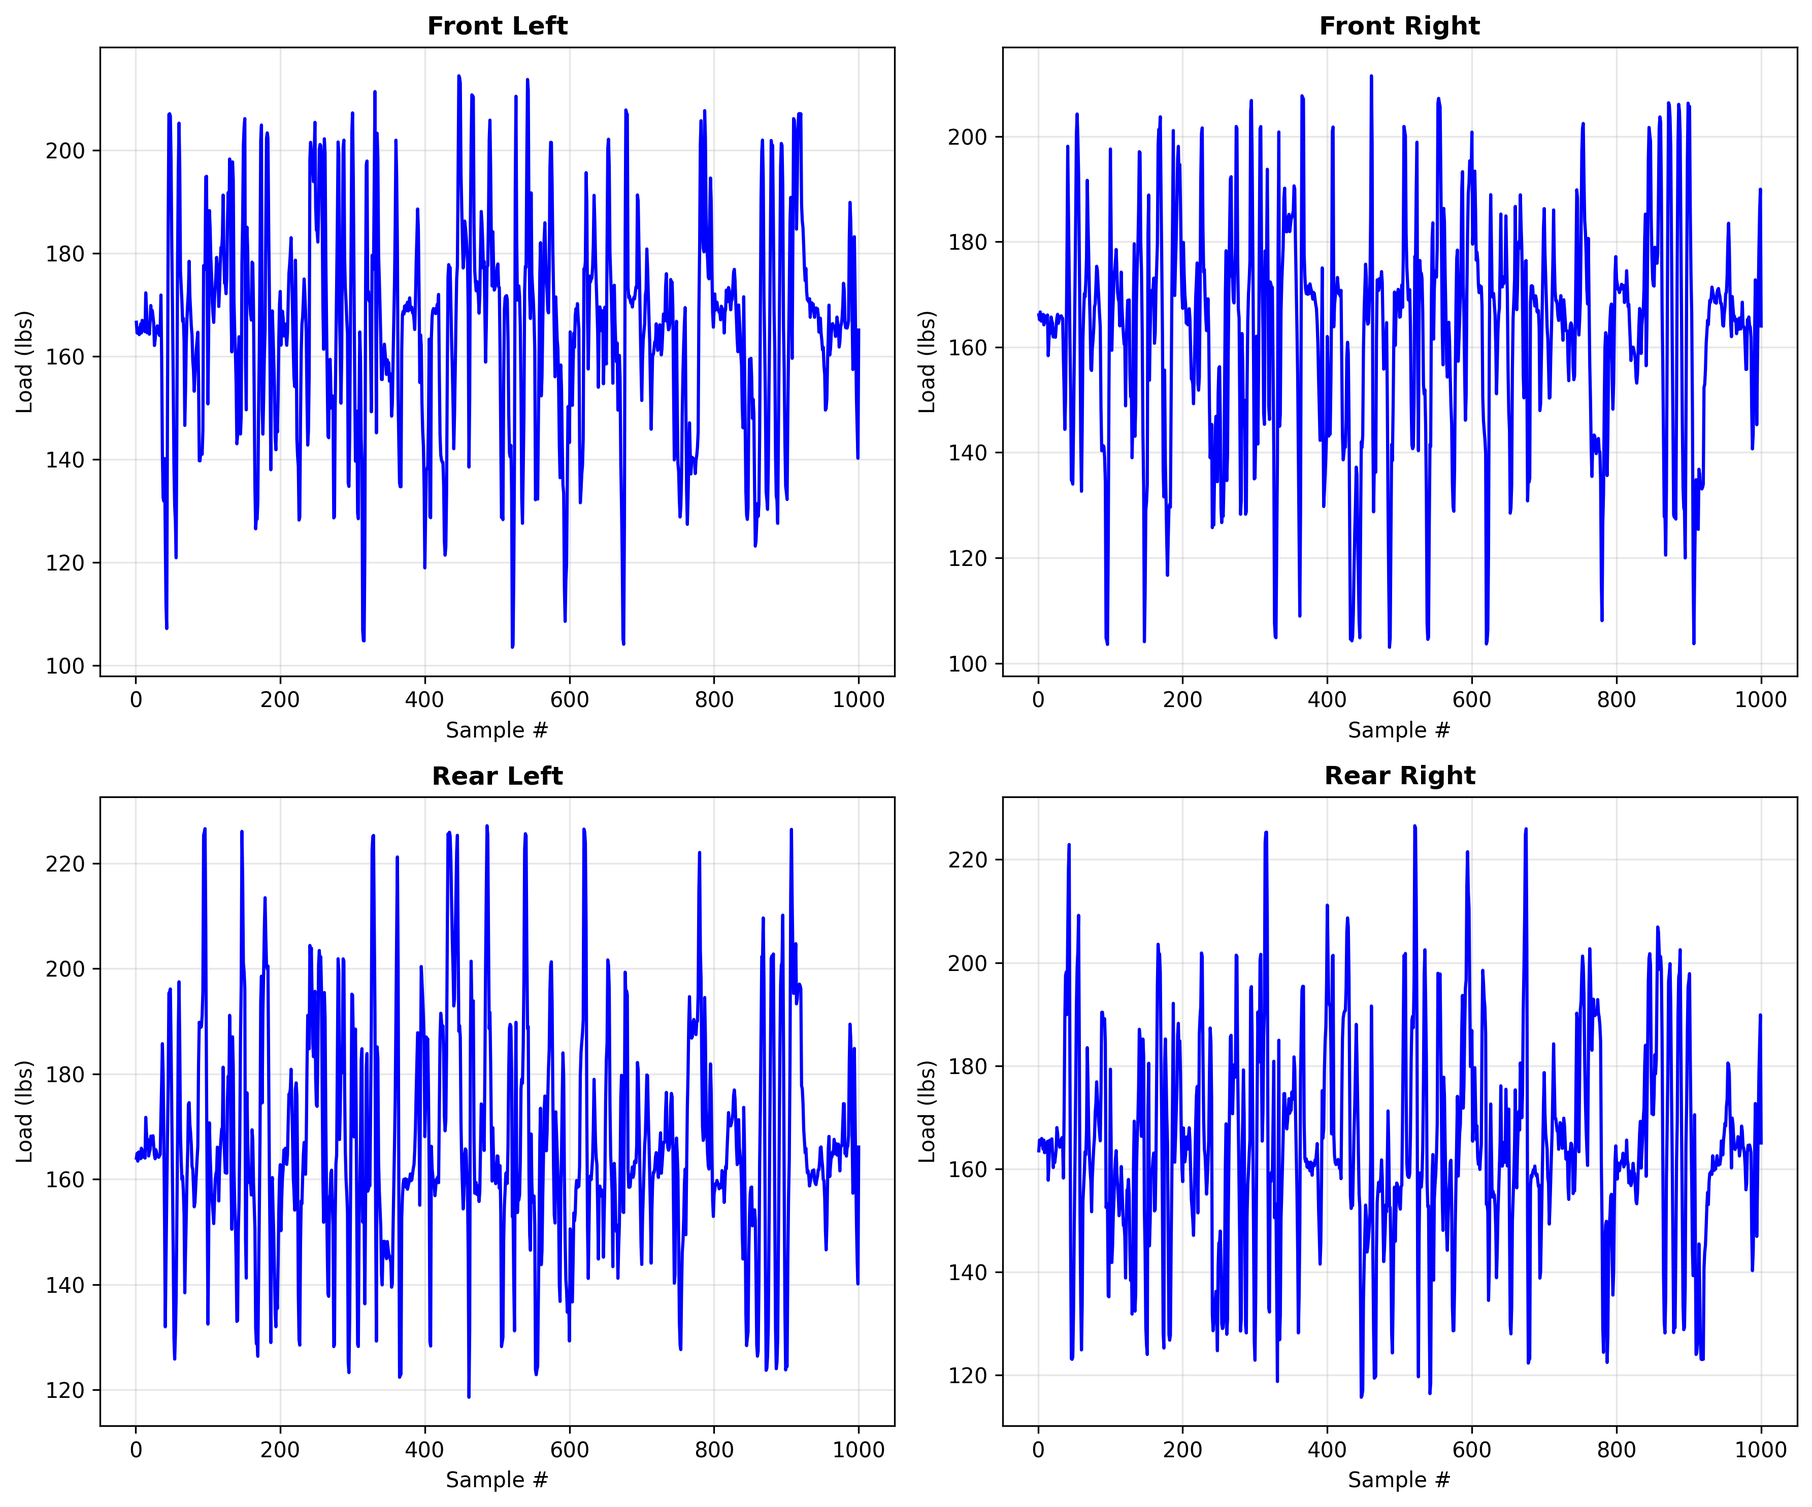
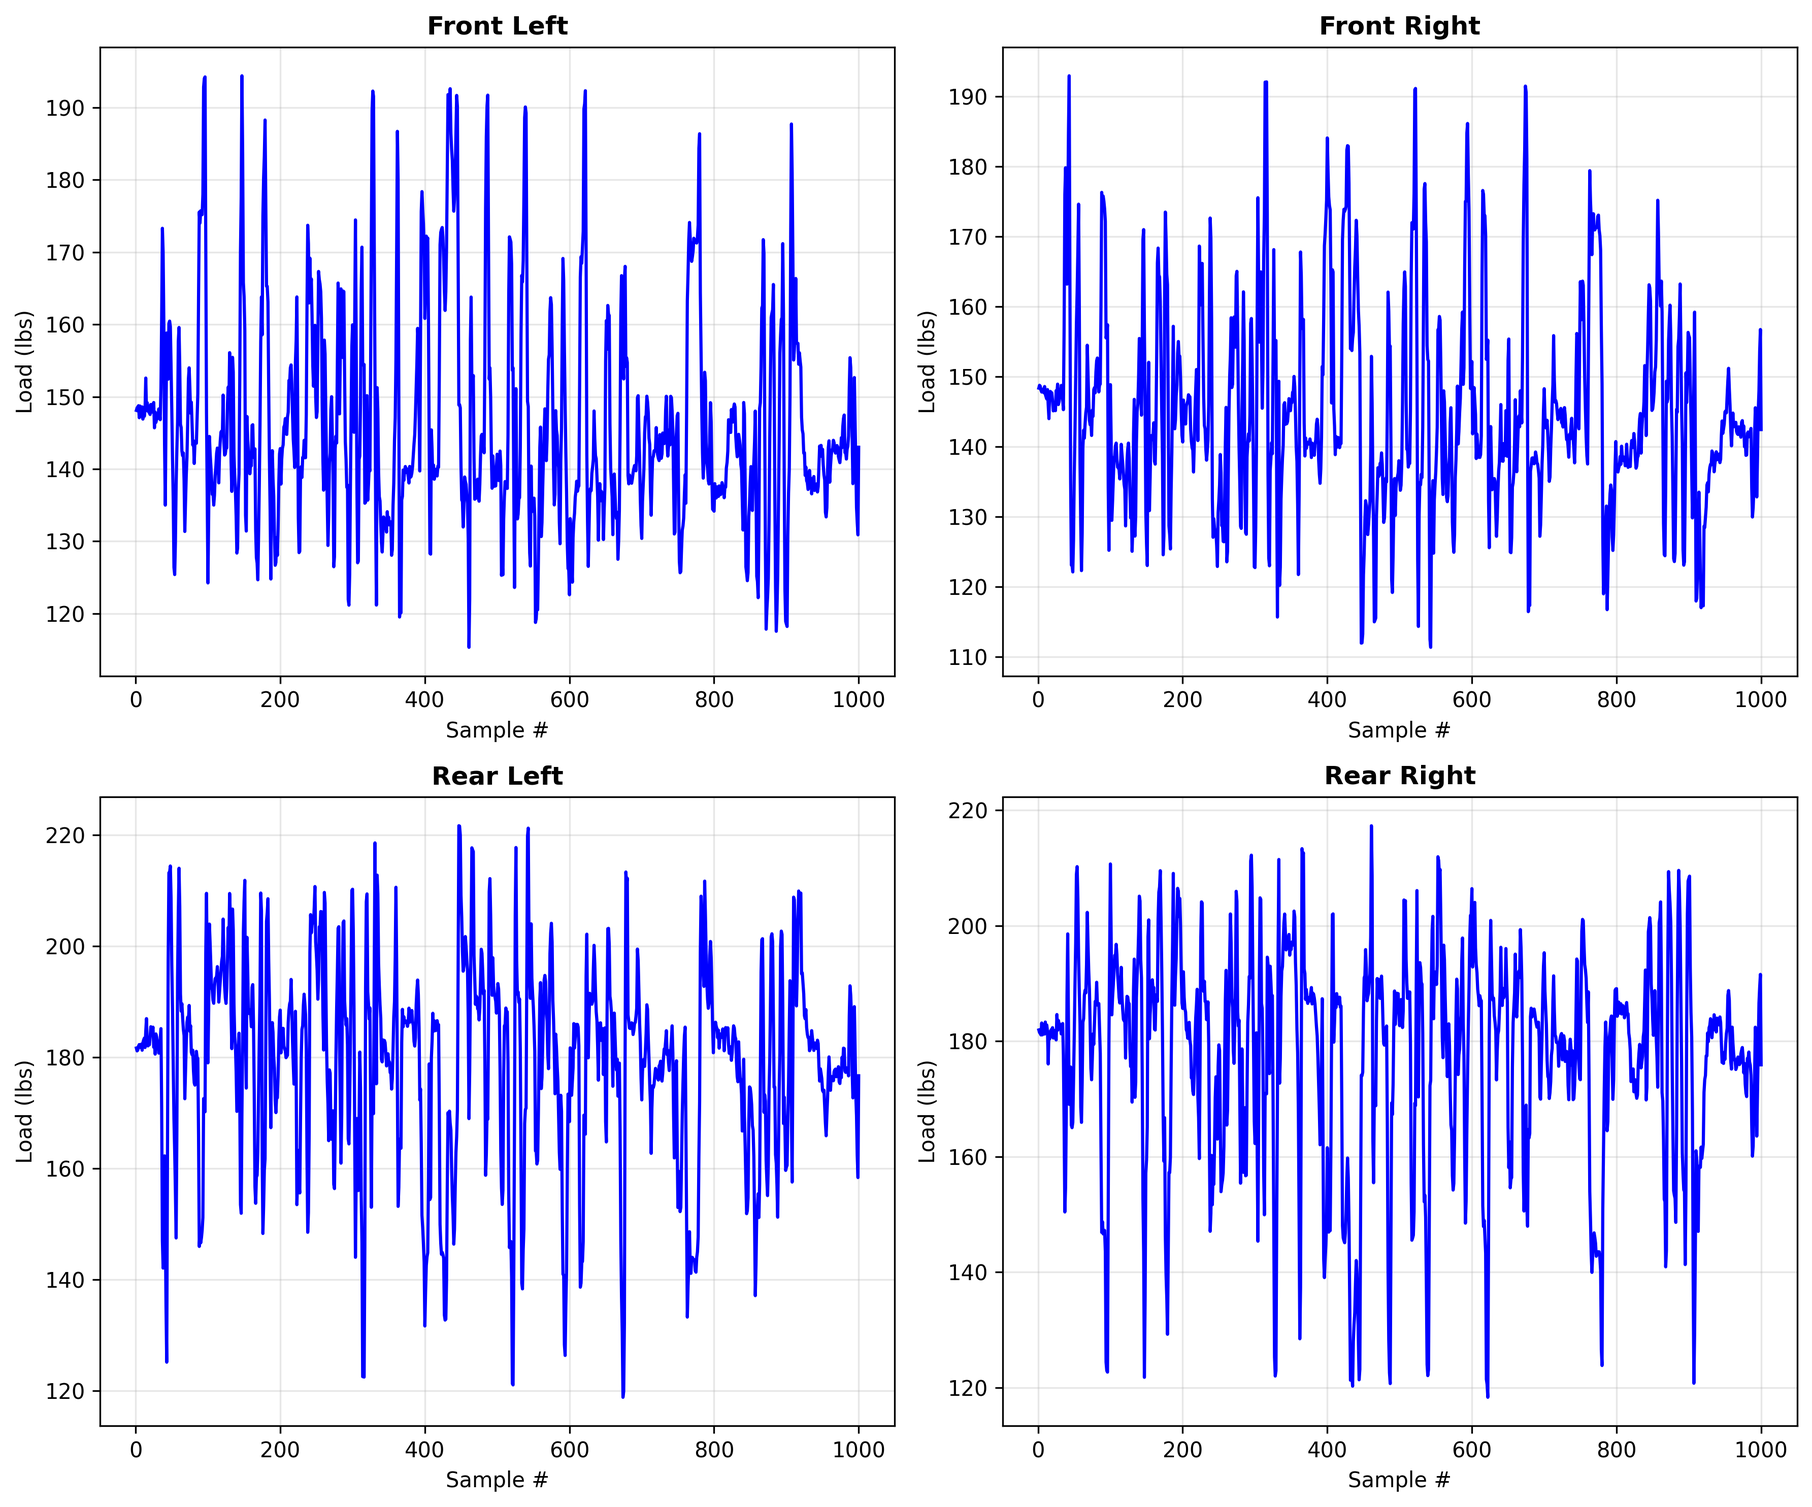
Attempted to add Center of Pressure Height and Longitudinal Location for Aero

diff --git a/python/lap_simulation/physics.py b/python/lap_simulation/physics.py
@@ -37,13 +37,14 @@ Acceleration Calculations:
 
 Vehicle Dynamics:
 ----------------
-16. calculate_load_transfer()              - Individual wheel loads with load transfer
-17. calculate_roll_angle()                 - Vehicle body roll angle during cornering
+16. calculate_aerodynamic_forces()         - Aerodynamic downforce and drag with center of pressure
+17. calculate_load_transfer()              - Individual wheel loads with load transfer and aerodynamics  
+18. calculate_roll_angle()                 - Vehicle body roll angle during cornering
 
 Utility Functions:
 -----------------
-18. get_vehicle_parameters()               - Track-specific vehicle parameter setup
-19. estimate_lap_time()                    - Lap time estimation from velocity profile
+19. get_vehicle_parameters()               - Track-specific vehicle parameter setup
+20. estimate_lap_time()                    - Lap time estimation from velocity profile
 """
 
 import numpy as np
@@ -145,6 +146,9 @@ def get_vehicle_parameters(track_type, enable_aero=None, aero_config=None):
         'air_density': config['air_density'] * 0.00194,  # kg/m³ to slugs/ft³
         'aero_enabled': config.get('aero_enabled', True),
         'aero_config': config.get('aero_config', 'realistic'),
+        'cop_longitudinal_position': config['cop_longitudinal_position'] * 3.281,  # m to ft
+        'cop_height': config['cop_height'] * 3.281,  # m to ft
+        'front_downforce_distribution': config['front_downforce_distribution'],  # Already in decimal
         
         # Performance limits (realistic estimates based on FSAE capabilities)
         'max_lat_accel': 1.4,  # realistic max lateral g's for FSAE
@@ -476,9 +480,91 @@ def estimate_lap_time(distances, velocities):
     return lap_time
 
 
-def calculate_load_transfer(A_lat_g, A_long_g, vehicle_config):
+def calculate_aerodynamic_forces(velocities, vehicle_params):
     """
-    Calculate individual wheel loads accounting for lateral and longitudinal load transfer.
+    Calculate aerodynamic downforce and drag forces with center of pressure effects.
+    
+    Based on MATLAB Lap_Sim methodology with center of pressure distribution.
+    
+    Parameters:
+    -----------
+    velocities : np.ndarray
+        Velocity array in mph
+    vehicle_params : dict
+        Vehicle parameters including aerodynamic coefficients and center of pressure
+        
+    Returns:
+    --------
+    dict
+        Dictionary containing:
+        - 'total_downforce': Total downforce in lbs
+        - 'front_downforce': Front axle downforce in lbs  
+        - 'rear_downforce': Rear axle downforce in lbs
+        - 'drag_force': Total drag force in lbs
+        - 'drag_moment': Pitch moment from drag force in ft-lbs
+        - 'downforce_pitch_moment': Pitch moment from downforce acting at CoP longitudinal position in ft-lbs
+    """
+    N = len(velocities)
+    
+    # Initialize force arrays
+    aero_forces = {
+        'total_downforce': np.zeros(N),
+        'front_downforce': np.zeros(N),
+        'rear_downforce': np.zeros(N),
+        'drag_force': np.zeros(N),
+        'drag_moment': np.zeros(N),
+        'downforce_pitch_moment': np.zeros(N)
+    }
+    
+    if not vehicle_params.get('aero_enabled', True):
+        return aero_forces
+    
+    for i in range(N):
+        # Convert velocity to ft/s for calculations
+        v_fps = velocities[i] * 5280 / 3600
+        
+        # Calculate dynamic pressure: q = 0.5 * ρ * v²
+        dynamic_pressure = 0.5 * vehicle_params['air_density'] * v_fps**2
+        
+        # Total downforce: F = q * Cl * A
+        total_downforce_force = dynamic_pressure * vehicle_params['aero_cl'] * vehicle_params['frontal_area']
+        total_downforce_lbs = total_downforce_force / 32.2  # Convert to equivalent weight in lbs
+        
+        # Distribute downforce based on center of pressure (front/rear distribution)
+        front_downforce_lbs = total_downforce_lbs * vehicle_params['front_downforce_distribution']
+        rear_downforce_lbs = total_downforce_lbs * (1.0 - vehicle_params['front_downforce_distribution'])
+        
+        # Total drag: F = q * Cd * A  
+        drag_force_lbs = dynamic_pressure * vehicle_params['aero_cd'] * vehicle_params['frontal_area'] / 32.2
+        
+        # Pitch moment from drag acting at center of pressure height
+        # Moment = Drag_Force * (CoP_height - ground_reference)
+        drag_moment_ftlbs = drag_force_lbs * vehicle_params['cop_height']
+        
+        # Additional pitch moment from downforce acting at center of pressure longitudinal position
+        # This creates a moment about the vehicle's center of gravity
+        wheelbase_ft = vehicle_params['wheelbase']
+        cg_x_ft = vehicle_params.get('cg_x', wheelbase_ft * 0.45) * 3.281  # Default CG at 45% wheelbase if not provided
+        cop_distance_from_cg = vehicle_params['cop_longitudinal_position'] - cg_x_ft
+        downforce_pitch_moment = total_downforce_lbs * cop_distance_from_cg
+        
+        # Store results
+        aero_forces['total_downforce'][i] = total_downforce_lbs
+        aero_forces['front_downforce'][i] = front_downforce_lbs
+        aero_forces['rear_downforce'][i] = rear_downforce_lbs
+        aero_forces['drag_force'][i] = drag_force_lbs
+        aero_forces['drag_moment'][i] = drag_moment_ftlbs
+        aero_forces['downforce_pitch_moment'][i] = downforce_pitch_moment
+    
+    return aero_forces
+
+
+def calculate_load_transfer(A_lat_g, A_long_g, velocities, vehicle_config):
+    """
+    Calculate individual wheel loads accounting for lateral and longitudinal load transfer,
+    including aerodynamic effects with center of pressure.
+    
+    Based on MATLAB Lap_Sim methodology with aerodynamic load distribution.
     
     Parameters:
     -----------
@@ -486,6 +572,8 @@ def calculate_load_transfer(A_lat_g, A_long_g, vehicle_config):
         Lateral acceleration in g-force
     A_long_g : np.ndarray
         Longitudinal acceleration in g-force
+    velocities : np.ndarray
+        Velocity array in mph for aerodynamic calculations
     vehicle_config : dict
         Vehicle configuration parameters
         
@@ -504,19 +592,91 @@ def calculate_load_transfer(A_lat_g, A_long_g, vehicle_config):
         'RR': np.zeros(N)   # Rear Right
     }
     
-    # Get vehicle parameters
-    base_load = vehicle_config['weight'] / 4.0 * 0.224809  # N to lbs conversion, divided by 4 corners
+    # Calculate aerodynamic forces - need to convert config to params format
+    # Create a minimal vehicle_params dict for aerodynamic calculations
+    vehicle_params_for_aero = {
+        'aero_cl': vehicle_config.get('downforce_coefficient', 0.0),
+        'aero_cd': vehicle_config.get('drag_coefficient', 0.0),
+        'frontal_area': vehicle_config.get('frontal_area', 1.2) * 10.764,  # m² to ft²
+        'air_density': vehicle_config.get('air_density', 1.225) * 0.00194,  # kg/m³ to slugs/ft³
+        'aero_enabled': vehicle_config.get('aero_enabled', True),
+        'front_downforce_distribution': vehicle_config.get('front_downforce_distribution', 0.48),
+        'cop_longitudinal_position': vehicle_config.get('cop_longitudinal_position', 0.95) * 3.281,  # m to ft
+        'cop_height': vehicle_config.get('cop_height', 0.698) * 3.281,  # m to ft
+        'wheelbase': vehicle_config.get('wheelbase', 1.55) * 3.281,  # m to ft
+    }
+    
+    aero_forces = calculate_aerodynamic_forces(velocities, vehicle_params_for_aero)
+    
+    # Static weight distribution (vehicle_config weight is in N, convert to lbs)
+    total_weight_lbs = vehicle_config['weight'] * 0.224809  # N to lbs
+    
+    # Front and rear weight distribution based on CG position
+    wheelbase_ft = vehicle_config['wheelbase'] * 3.281  # m to ft
+    cg_x_ft = vehicle_config['cg_x'] * 3.281  # Convert m to ft
+    
+    # Weight distribution percentages
+    front_weight_percent = (wheelbase_ft - cg_x_ft) / wheelbase_ft
+    rear_weight_percent = cg_x_ft / wheelbase_ft
+    
+    # Static loads per axle
+    static_front_total = total_weight_lbs * front_weight_percent
+    static_rear_total = total_weight_lbs * rear_weight_percent
+    
+    # Track widths for lateral load transfer
+    track_width_front = vehicle_config.get('track_width_front', vehicle_config['track_width']) * 3.281  # m to ft
+    track_width_rear = vehicle_config.get('track_width_rear', vehicle_config['track_width']) * 3.281  # m to ft
     
     for i in range(N):
-        # Simplified load transfer calculation using vehicle config
-        lat_transfer = A_lat_g[i] * vehicle_config['mass'] * 0.224809 * 0.3  # Lateral load transfer
-        long_transfer = A_long_g[i] * vehicle_config['mass'] * 0.224809 * 0.2  # Longitudinal load transfer
+        # Base static loads per wheel (quarter of total weight)
+        base_front_per_wheel = static_front_total / 2.0
+        base_rear_per_wheel = static_rear_total / 2.0
+        
+        # Add aerodynamic downforce
+        front_aero_per_wheel = aero_forces['front_downforce'][i] / 2.0
+        rear_aero_per_wheel = aero_forces['rear_downforce'][i] / 2.0
+        
+        # Total normal loads including aerodynamics
+        front_total_per_wheel = base_front_per_wheel + front_aero_per_wheel
+        rear_total_per_wheel = base_rear_per_wheel + rear_aero_per_wheel
+        
+        # Lateral load transfer (based on lateral acceleration and CG height)
+        cg_height_ft = vehicle_config['cg_height']
+        lat_transfer_front = A_lat_g[i] * front_total_per_wheel * cg_height_ft / track_width_front
+        lat_transfer_rear = A_lat_g[i] * rear_total_per_wheel * cg_height_ft / track_width_rear
+        
+        # Longitudinal load transfer (based on longitudinal acceleration and CG height)
+        long_transfer_total = A_long_g[i] * total_weight_lbs * cg_height_ft / wheelbase_ft
+        long_transfer_front = long_transfer_total * front_weight_percent
+        long_transfer_rear = long_transfer_total * rear_weight_percent
+        
+        # Additional longitudinal load transfer from aerodynamic pitch moment
+        # The center of pressure position affects front/rear load distribution
+        if 'downforce_pitch_moment' in aero_forces:
+            aero_pitch_moment = aero_forces['downforce_pitch_moment'][i]
+            # Convert pitch moment to additional longitudinal load transfer
+            aero_long_transfer = aero_pitch_moment / wheelbase_ft
+            # Distribute based on whether CoP is ahead or behind CG
+            cop_x_ft = vehicle_config['cop_longitudinal_position'] * 3.281
+            if cop_x_ft > cg_x_ft:  # CoP behind CG - increases rear load
+                long_transfer_front -= aero_long_transfer
+                long_transfer_rear += aero_long_transfer
+            else:  # CoP ahead of CG - increases front load
+                long_transfer_front += aero_long_transfer
+                long_transfer_rear -= aero_long_transfer
         
         # Calculate individual corner loads
-        loads['FL'][i] = base_load - lat_transfer + long_transfer
-        loads['FR'][i] = base_load + lat_transfer + long_transfer
-        loads['RL'][i] = base_load - lat_transfer - long_transfer
-        loads['RR'][i] = base_load + lat_transfer - long_transfer
+        # Front wheels: add/subtract lateral transfer, add/subtract longitudinal transfer
+        loads['FL'][i] = front_total_per_wheel - lat_transfer_front - long_transfer_front
+        loads['FR'][i] = front_total_per_wheel + lat_transfer_front - long_transfer_front
+        
+        # Rear wheels: add/subtract lateral transfer, opposite longitudinal transfer
+        loads['RL'][i] = rear_total_per_wheel - lat_transfer_rear + long_transfer_rear  
+        loads['RR'][i] = rear_total_per_wheel + lat_transfer_rear + long_transfer_rear
+        
+        # Ensure no negative loads (wheels lifting off)
+        for key in loads:
+            loads[key][i] = max(0, loads[key][i])
     
     return loads
 

diff --git a/python/main.py b/python/main.py
@@ -17,7 +17,7 @@ from vehicle_config import get_vehicle_config, get_powertrain_config, print_vehi
 sys.path.append(os.path.join(os.path.dirname(__file__), 'python'))
 
 from lap_simulation import lap_sim
-from lap_simulation.physics import calculate_load_transfer, calculate_roll_angle
+from lap_simulation.physics import calculate_load_transfer, calculate_roll_angle, calculate_realistic_velocities
 from lap_simulation.plotting import (plot_accelerations, plot_corner_loads, 
                                    plot_accelerations_by_sample, plot_roll_angles,
                                    plot_track_only, plot_velocity_profile)
@@ -60,6 +60,27 @@ def main():
         # Pass configurations to simulation
         A_long_g, A_lat_g, distance = lap_sim(endurance_coords, base_dir)
         
+        # Try to load track coordinates for velocity calculation
+        try:
+            track_data = load_track_data_quiet()
+            if track_data and 'endurance' in track_data:
+                x_coords = track_data['endurance']['x_racing']
+                y_coords = track_data['endurance']['y_racing']
+                track_type = 'endurance'
+            else:
+                # If no track data available, create approximate coordinates from distance
+                # This is a fallback - ideally we'd have the actual racing line coordinates
+                x_coords = np.cumsum(np.ones(len(distance)) * 10)  # Rough approximation
+                y_coords = np.zeros(len(distance))  # Straight line approximation
+                track_type = 'endurance'
+                print("Warning: Using approximate coordinates for velocity calculation")
+        except:
+            # Fallback coordinate generation
+            x_coords = np.cumsum(np.ones(len(distance)) * 10)
+            y_coords = np.zeros(len(distance))
+            track_type = 'endurance'
+            print("Warning: Using approximate coordinates for velocity calculation")
+        
     except Exception as e:
         # Create realistic fallback data if simulation fails
         print(f"Simulation failed, using fallback data: {e}")
@@ -73,11 +94,23 @@ def main():
                 A_long_g[i:i+10] = np.random.uniform(-1.2, -0.8, 10)  # Braking
                 A_lat_g[i+10:i+30] = np.random.uniform(1.0, 1.6, 20)  # Cornering
                 A_long_g[i+30:i+50] = np.random.uniform(0.5, 1.0, 20)  # Acceleration
+        
+        # Create approximate coordinates for fallback
+        x_coords = np.cumsum(np.ones(len(distance)) * 10)
+        y_coords = np.zeros(len(distance))
+        track_type = 'endurance'
     
     # Section 2: Physics Calculations (moved to physics module)
     try:
-        # Calculate load transfer using physics module
-        loads = calculate_load_transfer(A_lat_g, A_long_g, vehicle_config)
+        # Calculate realistic velocities using physics-based approach
+        # Convert coordinates to feet if needed (assuming input is in feet)
+        velocities = calculate_realistic_velocities(x_coords, y_coords, track_type, 
+                                                  enable_aero=True, aero_config='original')
+        
+        print(f"Calculated velocities: min={np.min(velocities):.1f} mph, max={np.max(velocities):.1f} mph, avg={np.mean(velocities):.1f} mph")
+        
+        # Calculate load transfer using physics module with realistic velocities
+        loads = calculate_load_transfer(A_lat_g, A_long_g, velocities, vehicle_config)
         
         # Calculate roll angles using physics module
         roll_angle = calculate_roll_angle(A_lat_g, vehicle_config)

diff --git a/python/vehicle_config.py b/python/vehicle_config.py
@@ -57,6 +57,16 @@ DRAG_COEFFICIENT = 0.0184  # Original MATLAB value
 # Realistic FSAE values: 1.0-3.5 with aero package, but using original for demo
 DOWNFORCE_COEFFICIENT = 0.0418  # Original MATLAB value
 
+# Center of pressure longitudinal position from front axle [m] (from MATLAB: 37.4/39.37 = 0.95m)
+COP_LONGITUDINAL_POSITION = 0.95  # Distance from front axle to aerodynamic center of pressure
+
+# Center of pressure height above ground [m] (from MATLAB: 27.5/39.37 = 0.698m)
+COP_HEIGHT = 0.698  # Height of aerodynamic center of pressure above ground
+
+# Front downforce distribution [%] (from MATLAB: CoP = 48%)
+# This represents what percentage of total downforce acts on the front axle
+FRONT_DOWNFORCE_DISTRIBUTION = 48.0  # 48% front, 52% rear
+
 # Air density [kg/m³]
 AIR_DENSITY = 1.225
 
@@ -252,6 +262,9 @@ def get_vehicle_config(enable_aero=None, aero_config=None):
         'frontal_area': FRONTAL_AREA,
         'drag_coefficient': drag_coeff,
         'downforce_coefficient': downforce_coeff,
+        'cop_longitudinal_position': COP_LONGITUDINAL_POSITION,
+        'cop_height': COP_HEIGHT,
+        'front_downforce_distribution': FRONT_DOWNFORCE_DISTRIBUTION / 100.0,  # Convert to decimal
         'air_density': AIR_DENSITY,
         'aero_enabled': aero_enabled,
         'aero_config': aero_config if aero_config else 'realistic',
@@ -312,6 +325,9 @@ def print_vehicle_summary():
     print(f"Frontal Area: {FRONTAL_AREA:.2f} m²")
     print(f"Drag Coefficient: {DRAG_COEFFICIENT:.2f}")
     print(f"Downforce Coefficient: {DOWNFORCE_COEFFICIENT:.2f}")
+    print(f"CoP Longitudinal Position: {COP_LONGITUDINAL_POSITION:.3f} m from front axle")
+    print(f"CoP Height: {COP_HEIGHT:.3f} m above ground")
+    print(f"Front Downforce Distribution: {FRONT_DOWNFORCE_DISTRIBUTION:.1f}%")
     print(f"Peak Friction: {TIRE_MF52_PARAMS['mu']:.2f}")
     print(f"Shift Point: {SHIFT_POINT} RPM")
     print("=" * 50)
